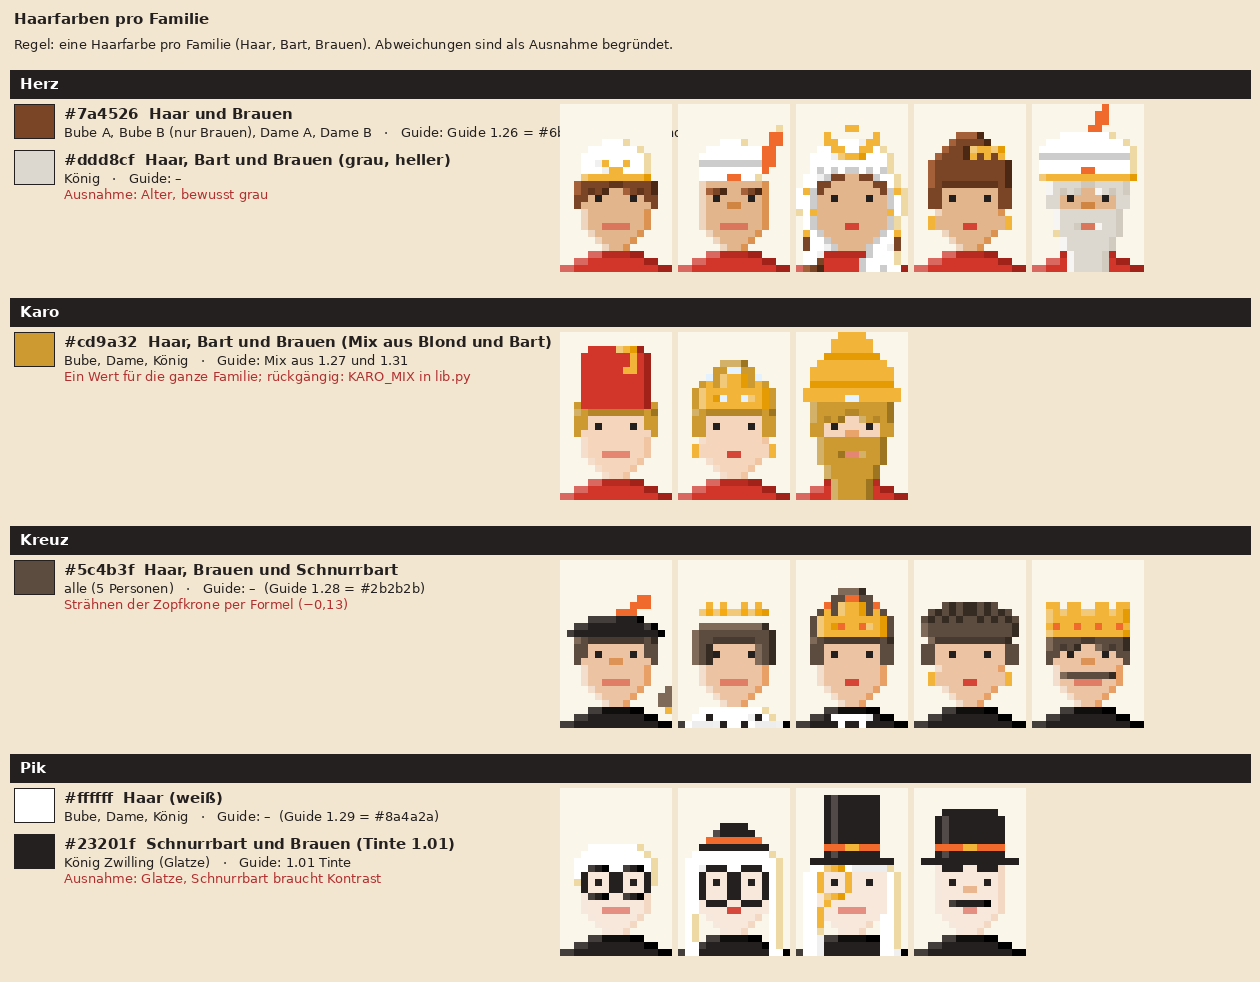
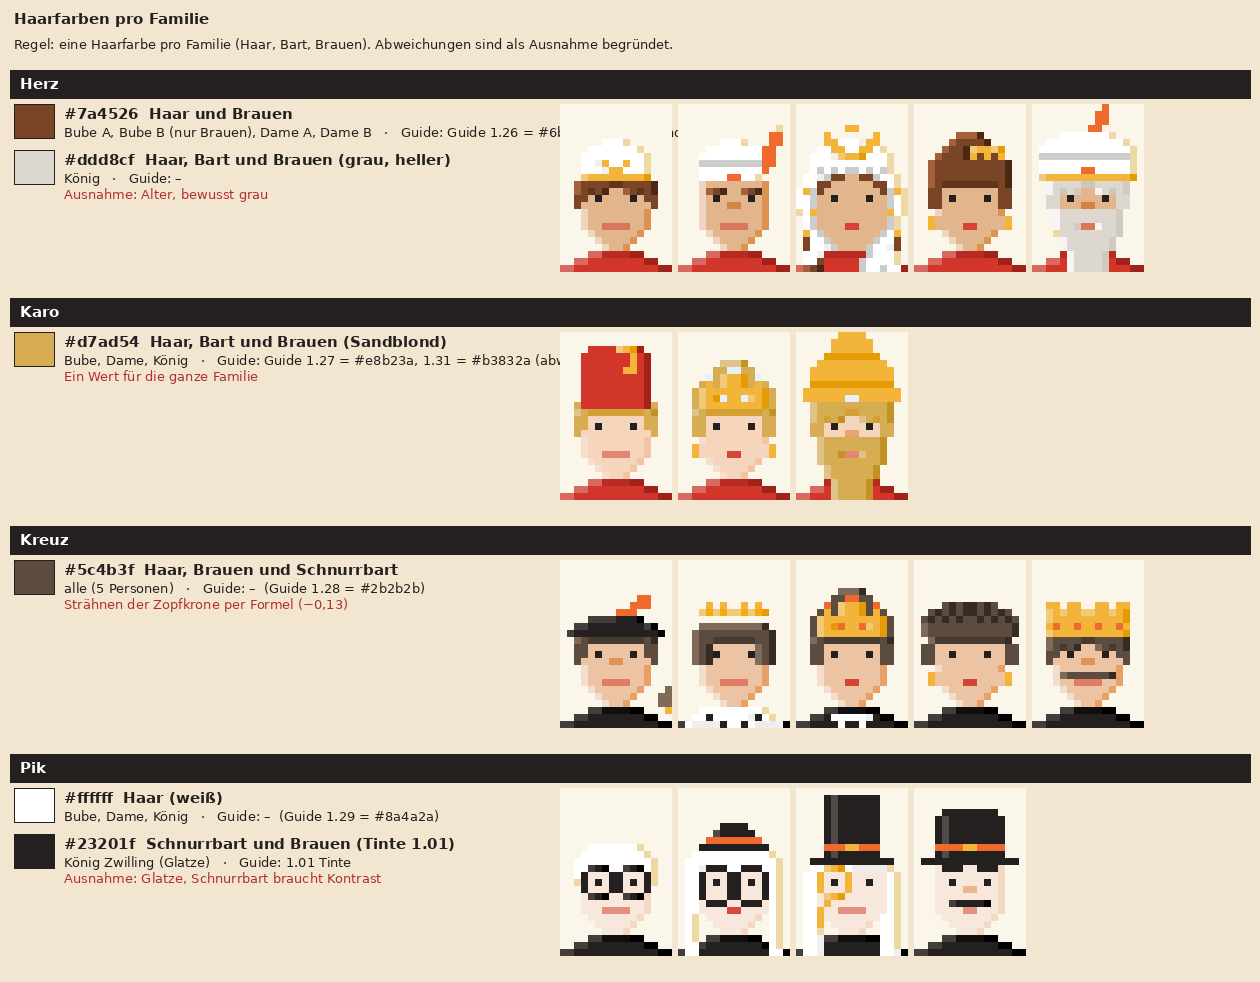
Bildkarten: Karo-Haar Sandblond #d7ad54 (eine Farbe für die Familie)
Claude-Session: https://claude.ai/code/session_01Tx2u5otHVnQBi24QLsTvXx

Changed region(s): [[0.4333, 0.3666, 0.7119, 0.5193], [0.0, 0.336, 0.4333, 0.3971]]

diff --git a/design/bildkarten/code/farben_pro_familie.py b/design/bildkarten/code/farben_pro_familie.py
@@ -13,7 +13,7 @@ D={ # Familie: [(hex, Element, Personen, formel?)]
  ('7a4526','Braunes Haar und Brauen','Bube A, Bube B, Dame A, Dame B',0),('ddd8cf','Grauer Bart und Haar','König',0),('f06a2d','Cheft-Orange 1.10: Federn, Edelsteine','Bube B, Dame A, König',0),
  ('a12219','Rot −0,13: Saumschattenlinien','Bube A, Bube B, Dame A, Dame B',1),('cccccc','Weiß −0,20: Turban- und Schleierfalten','Bube B, Dame A, König',1)],
 'Karo':[('d2362a','Rot: Kleidung, Fez, Mund der Dame','alle',0),('23201f','Schwarz: Augen, Brauen','alle',0),('f2b53a','Gold: Saumlinien, Turban, Diadem, Fezquaste, Ohrringe','alle',0),
- ('cd9a32','Haar, Bart und Brauen (Mix aus Guide 1.27 und 1.31)','Bube, Dame, König',0),('%s'%h6(tiefe.lo(SKIN)),'Haut −0,13: Nase','König',1),('f3cfae','Haut','alle',0),('d05a4a','Lippen','Bube, König',0),
+ ('d7ad54','Haar, Bart und Brauen (Sandblond)','Bube, Dame, König',0),('%s'%h6(tiefe.lo(SKIN)),'Haut −0,13: Nase','König',1),('f3cfae','Haut','alle',0),('d05a4a','Lippen','Bube, König',0),
  ('e4f2ff','Diamantweiß: Juwelen im Diadem und Turban','Dame, König',0),
  ('a12219','Rot −0,13: Fezfalte, Saumschattenlinien','Bube, Dame',1),('e59b04','Gold −0,13: Turbanfalten','König',1)],
 'Kreuz':[('23201f','Schwarz: Kleidung, Augen, Federkappe','alle',0),('f2b53a','Gold: Saumlinien, Krone, Diadem, Falkenzeichnung','alle',0),

diff --git a/design/bildkarten/code/haarfarben_uebersicht.py b/design/bildkarten/code/haarfarben_uebersicht.py
@@ -8,7 +8,7 @@ from tiefe_vergleich import spec_of
 HAAR={
 'Herz':[('7a4526','Haar und Brauen','Bube A, Bube B (nur Brauen), Dame A, Dame B','Guide 1.26 = #6b3f22 (abweichend)',''),
         ('ddd8cf','Haar, Bart und Brauen (grau, heller)','König','–','Ausnahme: Alter, bewusst grau')],
-'Karo':[('cd9a32','Haar, Bart und Brauen (Mix aus Blond und Bart)','Bube, Dame, König','Mix aus 1.27 und 1.31','Ein Wert für die ganze Familie; rückgängig: KARO_MIX in lib.py')],
+'Karo':[('d7ad54','Haar, Bart und Brauen (Sandblond)','Bube, Dame, König','Guide 1.27 = #e8b23a, 1.31 = #b3832a (abweichend)','Ein Wert für die ganze Familie')],
 'Kreuz':[('5c4b3f','Haar, Brauen und Schnurrbart','alle (5 Personen)','–  (Guide 1.28 = #2b2b2b)','Strähnen der Zopfkrone per Formel (−0,13)')],
 'Pik':[('ffffff','Haar (weiß)','Bube, Dame, König','–  (Guide 1.29 = #8a4a2a)',''),
        ('23201f','Schnurrbart und Brauen (Tinte 1.01)','König Zwilling (Glatze)','1.01 Tinte','Ausnahme: Glatze, Schnurrbart braucht Kontrast')],

diff --git a/design/bildkarten/code/lib.py b/design/bildkarten/code/lib.py
@@ -16,8 +16,7 @@ HAIR=dict(H=T('1.26'),D=T('1.27'),C=T('1.28'),S=T('1.29'))
 BEARD=dict(H=T('1.30'),D=T('1.31'),C=T('1.32'),S=T('1.33'))
 HAIR['H']=hx('7a4526')   # Herz-Braun (P3), weicht von Guide 1.26 (#6b3f22) ab
 HAIR['C']=hx('5c4b3f')   # Kreuz-Braun (P5), weicht von Guide 1.28 (#2b2b2b) ab
-KARO_MIX=True   # Karo: Haar, Bart und Brauen = Mitte aus Guide 1.27 (Haar Karo) und 1.31 (Bart Karo); False = rückgängig
-if KARO_MIX: HAIR['D']=BEARD['D']=tuple((a+b)//2 for a,b in zip(HAIR['D'],BEARD['D']))
+HAIR['D']=BEARD['D']=hx('d7ad54')   # Karo: eine Farbe für Haar, Bart und Brauen (Sandblond, K-d minimal dunkler); weicht von Guide 1.27/1.31 ab
 
 import os
 _ROOT=os.path.abspath(os.path.join(os.path.dirname(os.path.abspath(__file__)),'..','..','..'))
